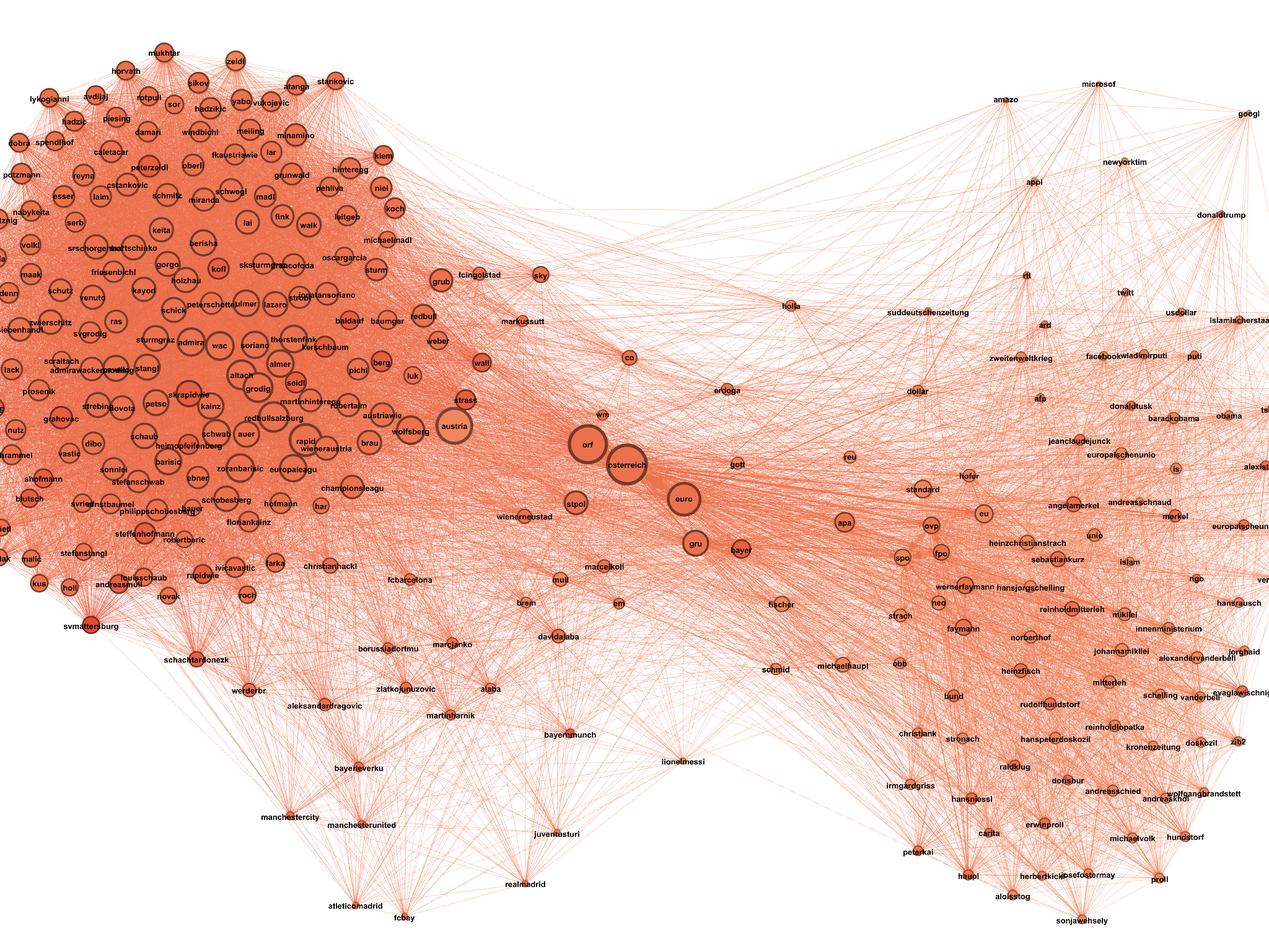
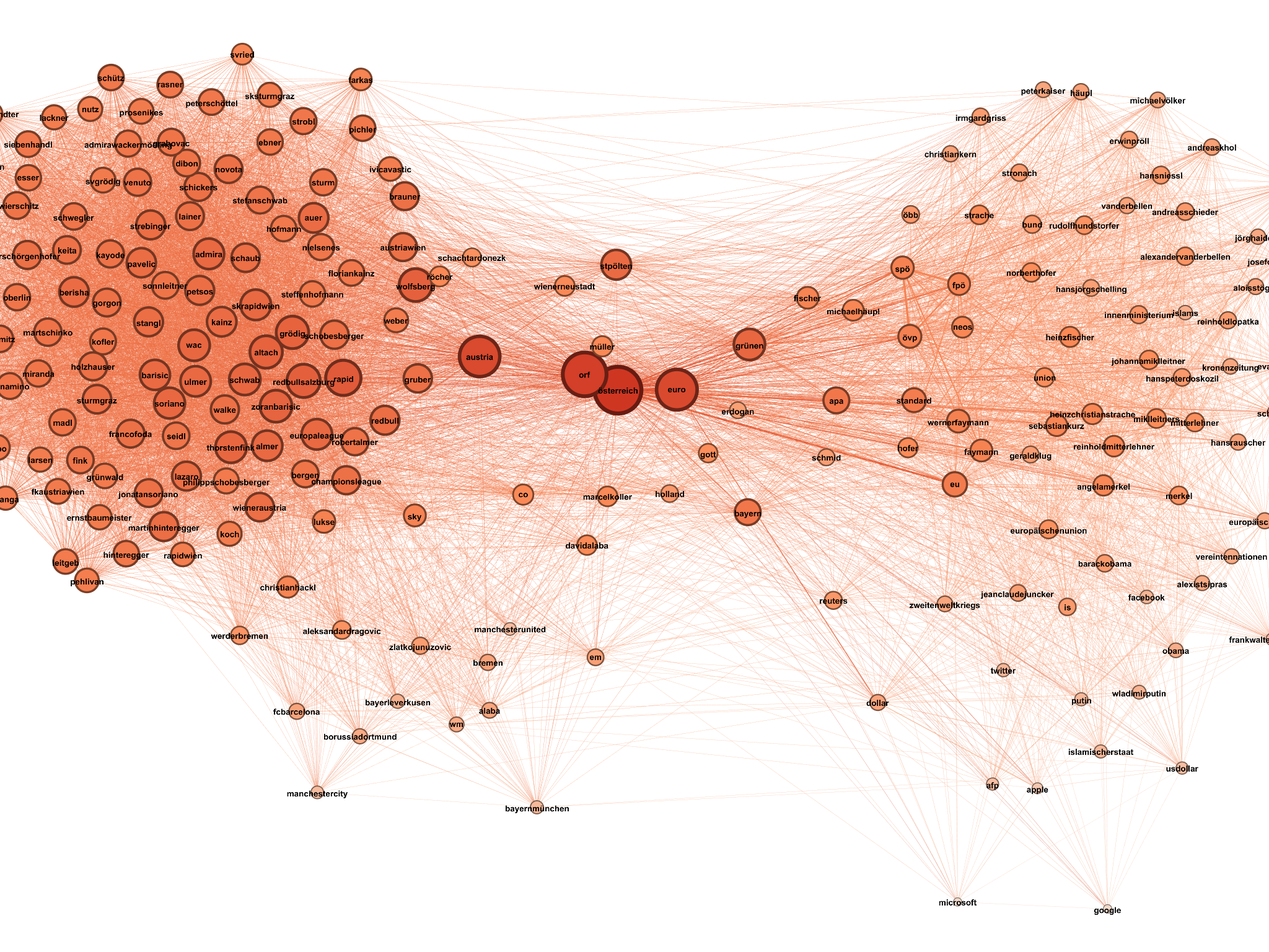
Use Text for lables instead of StemmedText

diff --git a/ner.py b/ner.py
@@ -15,7 +15,7 @@ import data_analysis
 
 def ner_article_plots():
     entities = dbase_helper.generate_pkl("prepared_ner_articles.pkl", generate_article_ner_frame)
-    pandas.DataFrame(entities['StemmedText'].value_counts().head(30)).plot.bar()
+    pandas.DataFrame(entities['Text'].value_counts().head(30)).plot.bar()
     plt_helper.save_and_show_plot("Entity Distribution")
 
     entities["Label"].value_counts().plot.bar()
@@ -27,11 +27,10 @@ def ner_article_plots():
     for label in set(entities["Label"]):
         print("Doing plots for: " + label)
         label_entities = entities[entities['Label'] == label]
-        label_series = label_entities["StemmedText"].value_counts().head(30)
+        label_series = label_entities["Text"].value_counts().head(30)
 
-        # For persons we check if name is subname and combine values (problematic with other lables e.g. österreich -
-        # oberösterreich)
         if label == "PER":
+            print("For top person entries try to unify first+last name and first-name/last-name only entries")
             persons = label_series.index.values
             for person in persons:
                 for compare_person in persons:
@@ -49,19 +48,19 @@ def ner_article_plots():
         top_entity_entries = []
         for entity in top_entities:
             if label == "PER":
-                entity_entries = label_entities[label_entities.StemmedText.str.contains(entity)]
-                entity_entries = entity_entries.assign(StemmedText=entity)
+                entity_entries = label_entities[label_entities.Text.str.contains(entity)]
+                entity_entries = entity_entries.assign(Text=entity)
             else:
-                entity_entries = label_entities[label_entities.StemmedText == entity]
+                entity_entries = label_entities[label_entities.Text == entity]
             top_entity_entries.append(entity_entries)
         top_entity_entries = pandas.concat(top_entity_entries)
         top_entity_entries = pandas.merge(top_entity_entries, articles_time)
 
         plt.style.use('seaborn-deep')
         year_entity_entries = top_entity_entries[top_entity_entries.PublishingDate.dt.year > 2014][
-            ['PublishingDate', 'StemmedText']]
+            ['PublishingDate', 'Text']]
         year_entity_entries.PublishingDate = year_entity_entries.PublishingDate.dt.date
-        plots = year_entity_entries['PublishingDate'].hist(by=year_entity_entries['StemmedText'], histtype='bar',
+        plots = year_entity_entries['PublishingDate'].hist(by=year_entity_entries['Text'], histtype='bar',
                                                            alpha=0.8, bins=12)
         fig = plt.gca().figure
         title = "Top Entities from " + label + "  over time"
@@ -71,7 +70,7 @@ def ner_article_plots():
         values = []
         labels = []
         for entity in top_entities:
-            values.append(year_entity_entries[year_entity_entries.StemmedText == entity]['PublishingDate'])
+            values.append(year_entity_entries[year_entity_entries.Text == entity]['PublishingDate'])
             labels.append(entity)
         plt.hist(values, label=labels)
         plt.legend()
@@ -108,28 +107,40 @@ def generate_article_ner_frame():
         axis=1,
         keys=['Article_ID', 'Label', 'Text', 'StemmedText']
     )
+
+    num_unified_entities = 2000
+    print("Unifying top " + str(num_unified_entities) + " entity-texts based on stemmed text")
+    renamed_entities = entities.StemmedText.value_counts().head(num_unified_entities)
+    num_entities = len(renamed_entities)
+    current_entity = 1
+    for entity in renamed_entities.index.values:
+        if current_entity % 100 == 0:
+            print("Entity " + str(current_entity) + "/" + str(num_entities))
+        current_entity += 1
+        unified_text = entities[entities.StemmedText == entity].Text.values[0]
+        entities.Text[entities.StemmedText == entity] = unified_text
     return entities
 
 
 def create_co_occurrence_all():
     entities = dbase_helper.generate_pkl("prepared_ner_articles.pkl", generate_article_ner_frame)
     num_top_entities = 50
-    pandas.DataFrame(entities['StemmedText'].value_counts().head(num_top_entities)).plot.bar()
+    pandas.DataFrame(entities['Text'].value_counts().head(num_top_entities)).plot.bar()
     plt.title("Distribution of top " + str(num_top_entities) + " named entities over all "
               + str(entities['Article_ID'].size) + " Articles")
     plt.show()
 
-    word_occurrences = pandas.DataFrame(entities['StemmedText'].value_counts())
-    word_occurrences = word_occurrences[word_occurrences['StemmedText'] >= 10]
-    word_occurrences = word_occurrences.rename(columns={'StemmedText': 'NumOccurrences'})
+    word_occurrences = pandas.DataFrame(entities['Text'].value_counts())
+    word_occurrences = word_occurrences[word_occurrences['Text'] >= 10]
+    word_occurrences = word_occurrences.rename(columns={'Text': 'NumOccurrences'})
 
     interesting_words = word_occurrences.index.values
     create_co_occurrence_matrix(interesting_words, 'article_co_occurrences.csv')
 
     entities_without_locations = entities[entities.Label != 'LOC']
-    word_occurrences = pandas.DataFrame(entities_without_locations['StemmedText'].value_counts())
-    word_occurrences = word_occurrences[word_occurrences['StemmedText'] >= 10]
-    word_occurrences = word_occurrences.rename(columns={'StemmedText': 'NumOccurrences'})
+    word_occurrences = pandas.DataFrame(entities_without_locations['Text'].value_counts())
+    word_occurrences = word_occurrences[word_occurrences['Text'] >= 10]
+    word_occurrences = word_occurrences.rename(columns={'Text': 'NumOccurrences'})
     interesting_words = word_occurrences.index.values
     create_co_occurrence_matrix(interesting_words, 'article_co_occurrences_without_locations.csv')
     print("done")
@@ -137,15 +148,16 @@ def create_co_occurrence_all():
 
 def create_co_occurrence_matrix(interesting_words: [str], filename: str = None):
     entities = dbase_helper.generate_pkl("prepared_ner_articles.pkl", generate_article_ner_frame)
-    some = entities[entities['StemmedText'].isin(interesting_words)].groupby(by='Article_ID', as_index=False).agg(
-        lambda x: ' '.join(list(x)))[['Article_ID', 'StemmedText']]
+    some = entities[entities['Text'].isin(interesting_words)].groupby(by='Article_ID', as_index=False).agg(
+        lambda x: ' '.join(list(x)))[['Article_ID', 'Text']]
     interesting_articles = np.array(some['Article_ID'])
 
     percent_interesting_articles = (interesting_articles.size / np.unique(entities['Article_ID']).size) * 100
-    print("We look at " + str(round(percent_interesting_articles, 2)) + "% of all articles")
+    print("We look at " + str(len(interesting_words)) + " entities and therefore at "
+          + str(round(percent_interesting_articles, 2)) + "% of all articles for co-occurrence")
 
     count_model = CountVectorizer(ngram_range=(1, 1))  # default unigram model
-    X = count_model.fit_transform(np.array(some['StemmedText']))
+    X = count_model.fit_transform(np.array(some['Text']))
     names = count_model.get_feature_names()
     # X[X > 0] = 1 # run this line if you don't want extra within-text cooccurence (see below)
     Xc = (X.T * X)  # this is co-occurrence matrix in sparse csr format
